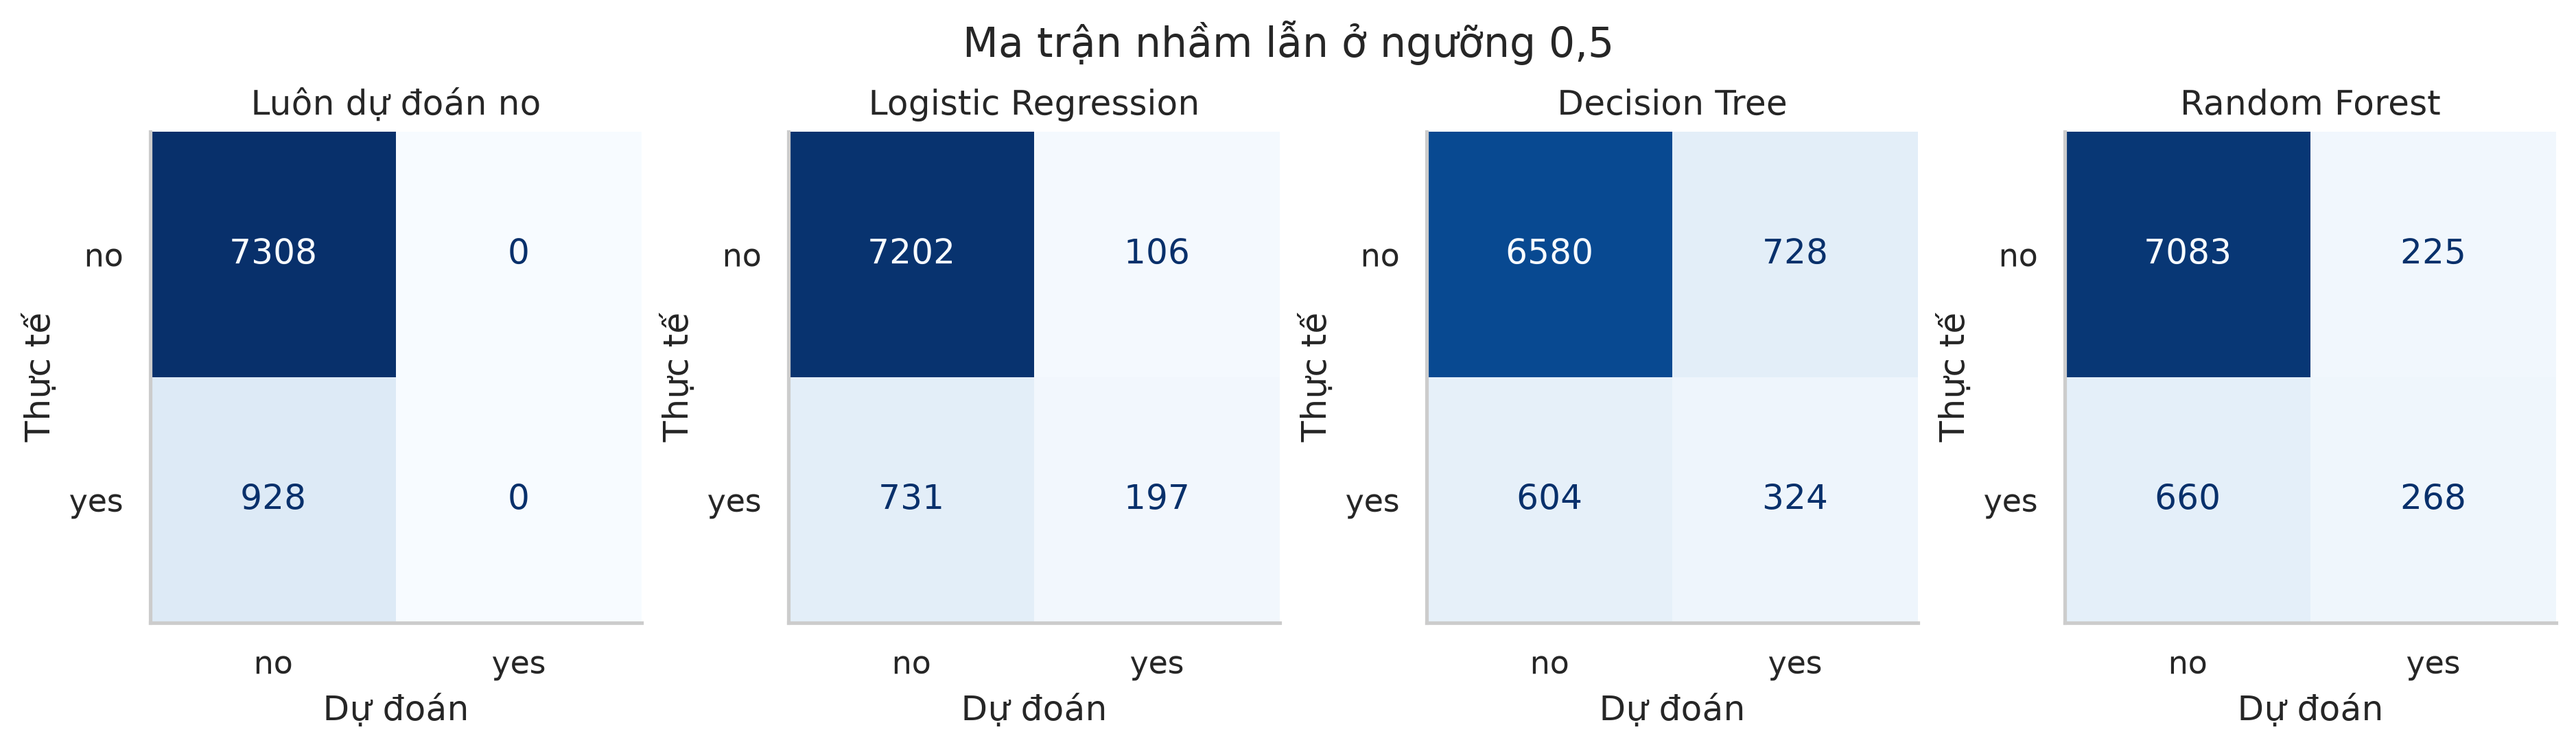
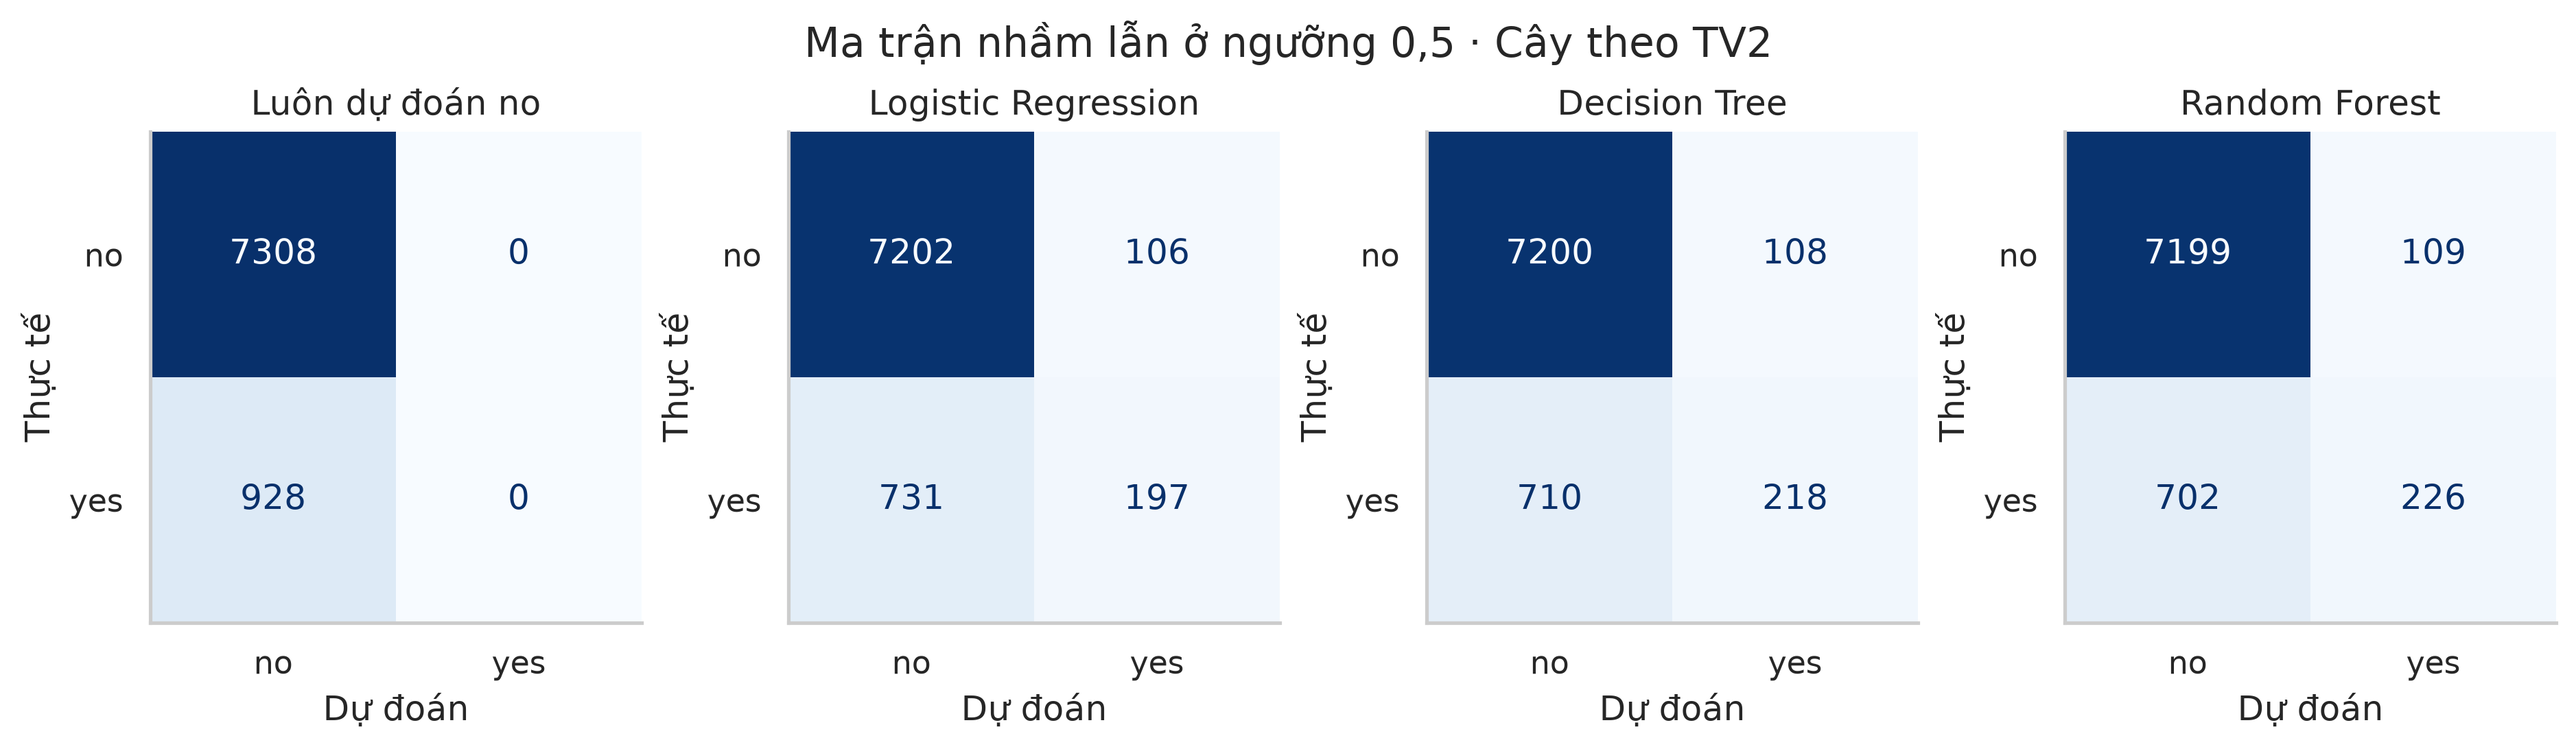
feat(tv4): align experiments with tuned TV2 models

diff --git a/reports/tv4/05_thao_luan.md b/reports/tv4/05_thao_luan.md
@@ -1,32 +1,39 @@
 # 5. Thảo luận
 
-Các phép so sánh dùng cùng bộ Parquet của nhóm, gồm 32.940 dòng train và 8.236 dòng test. Có 928 khách đăng ký trong tập test (11,27%). PR-AUC trong phần này là Average Precision (AP) theo hàm đánh giá chung. Precision, Recall và F1 được tính ở ngưỡng 0,5.
+Các phép so sánh dùng đúng bộ Parquet của TV2, gồm 32.940 dòng train và 8.236 dòng test. Có 928 khách đăng ký trong tập test (11,27%). Notebook huấn luyện lại hai mô hình cây với seed 42 và siêu tham số công bố tại commit `caface4` của `feat/tv2-tree-models`. PR-AUC là Average Precision (AP) theo hàm đánh giá chung. Bảng so sánh mặc định dùng ngưỡng 0,5.
 
 ## 5.1 Baseline và mô hình cây
 
 Mô hình luôn dự đoán `no` đạt Accuracy 88,73% dù bỏ sót cả 928 khách đăng ký. Recall và F1 của lớp `yes` đều bằng 0, còn AP chỉ bằng tỷ lệ khách đăng ký (0,1127). Vì vậy AP và các chỉ số của lớp `yes` phù hợp hơn khi đánh giá khả năng lập danh sách gọi.
 
-Với bộ dữ liệu bỏ `duration`, Logistic Regression đạt AP 0,4536, Random Forest đạt 0,4261 và Decision Tree đạt 0,1825. Random Forest có F1 cao hơn Logistic Regression ở ngưỡng 0,5 (0,3772 so với 0,3201), phản ánh sự khác nhau giữa xếp hạng xác suất và quyết định ở một ngưỡng. Hai mô hình cây ở đây dùng cấu hình mặc định để đối chứng. Kết luận về mô hình cây tinh chỉnh cần đối chiếu với bảng của TV2 trên cùng split.
+| Mô hình bỏ `duration` | Precision | Recall | F1 | ROC-AUC | AP |
+| --- | ---: | ---: | ---: | ---: | ---: |
+| Luôn dự đoán `no` | 0,0000 | 0,0000 | 0,0000 | 0,5000 | 0,1127 |
+| Logistic Regression | 0,6502 | 0,2123 | 0,3201 | 0,8005 | 0,4536 |
+| Decision Tree tinh chỉnh | 0,6687 | 0,2349 | 0,3477 | 0,8030 | 0,4686 |
+| Random Forest tinh chỉnh | 0,6746 | 0,2435 | 0,3579 | 0,8121 | 0,4876 |
 
-Random Forest hơn Decision Tree 24,36 điểm phần trăm AP và đạt ROC-AUC 0,7772 so với 0,6254. Cây đơn mặc định chỉ tạo 6 mức xác suất trên test, nên nhiều khách nhận cùng điểm. Random Forest lấy trung bình dự đoán từ nhiều cây huấn luyện trên các mẫu bootstrap và tập con đặc trưng. Trong lần chạy này, mô hình tạo 676 mức xác suất, cho thứ hạng chi tiết hơn và giảm phụ thuộc vào các điểm chia của một cây.
+Random Forest hơn Decision Tree 1,90 điểm phần trăm AP và hơn Logistic Regression 3,40 điểm. Decision Tree của TV2 giới hạn độ sâu 10 và yêu cầu ít nhất 100 mẫu mỗi lá. Random Forest bình quân dự đoán từ 300 cây huấn luyện trên mẫu bootstrap và thử tập con đặc trưng ở mỗi nút. Trên test, Decision Tree cho 101 mức xác suất và Random Forest cho 8.147 mức, tạo thứ hạng chi tiết hơn. Cả hai dòng tinh chỉnh khớp bảng test của TV2.
 
 Trên train, tương quan giữa `euribor3m`, `nr.employed` và `emp.var.rate` nằm trong khoảng 0,907–0,972. Logistic Regression bọc StandardScaler cho AP trung bình 5 fold là 0,4501 với đủ 64 biến và 0,4490 khi bỏ `euribor3m` và `nr.employed`. Notebook giữ đủ biến theo kết quả CV. Chênh lệch nhỏ cho thấy nhóm có thể cân nhắc bản gọn khi cần diễn giải hệ số hoặc giảm đầu vào.
 
 ## 5.2 Rò rỉ từ thời lượng cuộc gọi
 
-Trên cùng các dòng test với tham số mô hình giữ nguyên, thêm `duration` làm AP tăng từ 0,4536 lên 0,6010 với Logistic Regression, từ 0,1825 lên 0,3165 với Decision Tree và từ 0,4261 lên 0,6536 với Random Forest. Mức tăng của Random Forest là 22,75 điểm phần trăm. Thời lượng cuộc gọi chỉ có sau khi cuộc gọi kết thúc, nên các kết quả có `duration` lượng hóa lợi thế từ thông tin tương lai. Kết quả dùng để chọn khách trước cuộc gọi lấy từ cấu hình bỏ cột này.
+Trên cùng các dòng test với tham số mô hình giữ nguyên, thêm `duration` làm AP tăng từ 0,4536 lên 0,6010 với Logistic Regression, từ 0,4686 lên 0,6342 với Decision Tree và từ 0,4876 lên 0,6657 với Random Forest. Mức tăng của Random Forest là 17,81 điểm phần trăm. Thời lượng cuộc gọi chỉ có sau khi cuộc gọi kết thúc, nên các kết quả có `duration` lượng hóa lợi thế từ thông tin tương lai. Kết quả dùng để chọn khách trước cuộc gọi lấy từ cấu hình bỏ cột này.
 
 ## 5.3 Đánh đổi khi cân bằng lớp
 
-Với Random Forest bỏ `duration`, undersampling có AP trung bình trên train cao nhất (0,4132 so với 0,4117 của cấu hình gốc). Chênh lệch 0,0014 nhỏ so với độ lệch chuẩn giữa các fold (0,0206 và 0,0068). Trên test, undersampling phát hiện 632 khách đăng ký, tăng từ 268, đồng thời tăng dương tính giả từ 225 lên 1.440. Recall đạt 68,10% và Precision còn 30,50%.
+Với Random Forest tinh chỉnh và bỏ `duration`, dữ liệu gốc có AP trung bình 5 fold cao nhất (0,4692), tiếp theo là class weight (0,4685), oversampling (0,4677) và undersampling (0,4577). Chênh lệch giữa ba cấu hình đầu nhỏ so với độ lệch chuẩn giữa các fold. Oversampling đạt AP test 0,4889, sát mức 0,4876 của dữ liệu gốc.
 
-Class weight đạt F1 test cao nhất (0,4518), với Recall 45,69% và 525 dương tính giả. Oversampling đạt F1 0,4345. Số liệu ở ngưỡng 0,5 cho thấy các lựa chọn đánh đổi số khách phát hiện được với khối lượng gọi. Để chọn cấu hình theo lợi nhuận, nhóm cần áp dụng cùng quy tắc chi phí và ngưỡng chọn trên validation của TV2.
+Ở ngưỡng 0,5, oversampling có F1 test cao nhất (0,5017), với Recall 63,79% và Precision 41,34%. Số khách đăng ký được nhận diện tăng từ 226 lên 592, đồng thời dương tính giả tăng từ 109 lên 840. Class weight đạt F1 0,4916 và undersampling đạt 0,4944. Bảng này cho thấy đánh đổi giữa độ bao phủ và số cuộc gọi tại cùng ngưỡng. Kịch bản lợi nhuận của TV2 dùng cấu hình dữ liệu gốc, với ngưỡng riêng đã chọn trên train.
 
 ## 5.4 Đặc trưng và nhóm khách ưu tiên gọi
 
-`age` có mức giảm độ hỗn tạp lớn nhất ở cả Decision Tree (0,1618) và Random Forest (0,1480) sau khi gộp các cột one-hot theo biến gốc. `nr.employed` đứng thứ hai ở Decision Tree, còn `euribor3m` đứng thứ hai ở Random Forest. `job` chiếm khoảng 0,10 ở cả hai mô hình. Số điểm chia và tương quan giữa biến vĩ mô có thể ảnh hưởng thứ hạng này. Để xác định nhóm ưu tiên, cần xem hướng dự đoán và tỷ lệ đăng ký quan sát được.
+`nr.employed` có mức giảm độ hỗn tạp lớn nhất ở Decision Tree (0,6317). Random Forest phân bổ đóng góp nhiều hơn giữa `euribor3m` (0,1710), `nr.employed` (0,1539) và `poutcome` (0,0832 sau khi gộp các cột one-hot). Số điểm chia và tương quan giữa các biến vĩ mô có thể ảnh hưởng thứ hạng. Tỷ lệ đăng ký quan sát được giúp xác định nhóm ưu tiên gọi.
 
-Nếu ngân sách chỉ đủ gọi khoảng 10% khách, có thể ưu tiên nhóm điểm Random Forest cao nhất khi bỏ `duration`. Trên test, nhóm này có 396 lượt đăng ký trong 824 khách (48,06%), so với 11,27% trên toàn tập. Trong 279 khách từng có chiến dịch thành công (`poutcome_success = 1`), 172 người đăng ký (61,65%). Lịch sử phản hồi tích cực là tín hiệu đã có trước cuộc gọi. Hai nhóm có thể trùng khách, nên ngân sách và ngưỡng cuối cùng cần được chốt cùng TV2 theo số lượt gọi và chi phí.
+Nếu ngân sách chỉ đủ gọi khoảng 10% khách, có thể ưu tiên nhóm điểm Random Forest cao nhất khi bỏ `duration`. Trên test, nhóm này có 429 lượt đăng ký trong 824 khách (52,06%), so với 11,27% trên toàn tập. Trong 279 khách từng có chiến dịch thành công (`poutcome_success = 1`), 172 người đăng ký (61,65%). Lịch sử phản hồi tích cực là tín hiệu đã có trước cuộc gọi. Hai nhóm có thể trùng khách.
+
+Với giả định chi phí 5 mỗi cuộc gọi và doanh thu 50 mỗi lượt đăng ký, TV2 chọn ngưỡng 0,10 trên dự đoán ngoài fold của train. Áp dụng ngưỡng này trên test cho 1.766 lượt gọi, 623 lượt đăng ký, Recall 67,13% và lợi nhuận mô phỏng 22.320 đơn vị. Ở ngưỡng 0,5, mô hình gọi 335 khách, nhận diện 226 lượt đăng ký và đạt 9.625 đơn vị. Kịch bản gọi toàn bộ 8.236 khách đạt 5.220 đơn vị theo cùng giả định.
 
 ## 5.5 Hiệu năng Spark và scikit-learn
 
@@ -47,6 +54,8 @@ Khi dữ liệu vừa RAM và công việc chủ yếu là fit trên một máy,
 
 ## 5.6 Hạn chế
 
-Tập dữ liệu sạch có 41.176 dòng và lớp đăng ký chỉ chiếm 11,27% trên test. Chia ngẫu nhiên giúp giữ tỷ lệ lớp, đồng thời có thể đưa các quan sát thuộc cùng giai đoạn vào cả train và test. Khi đánh giá chiến dịch tương lai, nên huấn luyện trên `train_time.parquet` và kiểm tra trên `test_time.parquet` để đo ảnh hưởng của biến động theo thời gian.
+Tập dữ liệu sạch có 41.176 dòng. Chia ngẫu nhiên giúp giữ tỷ lệ lớp, đồng thời có thể đưa các quan sát thuộc cùng giai đoạn vào cả train và test. Khi huấn luyện lại Random Forest trên `train_time.parquet` và đánh giá trên `test_time.parquet`, ROC-AUC giảm từ 0,8121 xuống 0,7481. AP tăng từ 0,4876 lên 0,5459 và cần được đọc cùng tỷ lệ đăng ký nền tăng từ 11,27% lên 30,83%.
+
+Ở ngưỡng 0,10 trên test theo thời gian, 5.037 lượt gọi nhận diện 2.181 khách đăng ký và đạt lợi nhuận mô phỏng 83.865 đơn vị. Gọi toàn bộ đạt 85.770 đơn vị trong giai đoạn này. Ngưỡng 0,13 chọn từ `train_time` cho kết quả 76.675 đơn vị trên test thời gian. Khác biệt giữa hai split cho thấy cần kiểm tra lại ngưỡng trên dữ liệu theo thời gian khi đánh giá chiến dịch mới.
 
 Benchmark nhân bản các dòng hiện có để tăng tải, nên giữ nguyên phân bố và độ đa dạng của tập gốc. Hai thư viện cũng tìm điểm chia theo cách riêng, với Spark phân bin các giá trị liên tục. Bảng hiệu năng mô tả đúng cấu hình một máy đã đo.

diff --git a/README.md b/README.md
@@ -57,6 +57,8 @@ Dự án Phân tích Dữ liệu Lớn dự đoán khách hàng đăng ký tiề
 
 Chọn kernel Python 3.12 đã cài `requirements.txt`, rồi chạy `notebooks/04_experiments_comparison.ipynb`. Bảng kết quả và mục thảo luận nằm trong `reports/tv4`. Hình TV4 trong `reports/figures` dùng nền trắng, palette colorblind và 300 dpi.
 
+Notebook dùng siêu tham số cây, ngưỡng kinh doanh và giả định chi phí của TV2 tại commit `caface4`. `model_metrics.csv` dùng ngưỡng 0,5. `tv2_threshold_metrics.csv` lưu kịch bản ngưỡng trên split ngẫu nhiên và split thời gian.
+
 Chạy lần lượt các lệnh benchmark từ thư mục gốc. Khuyến nghị dùng JDK 17 hoặc 21 cho PySpark.
 
 ```powershell
